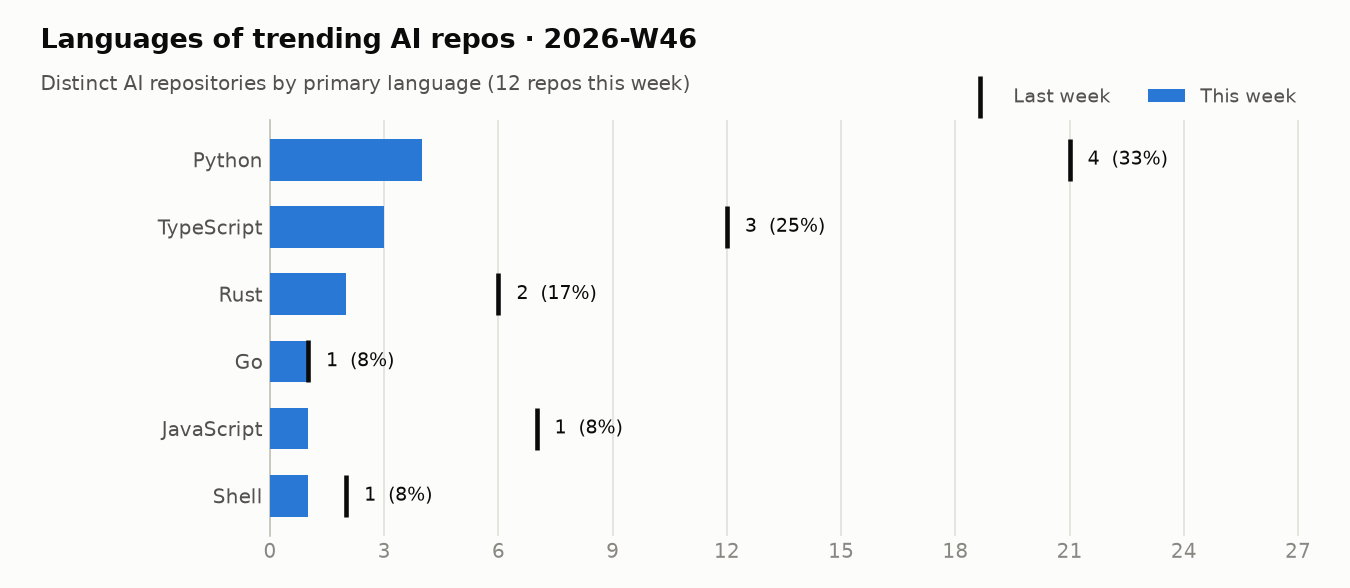
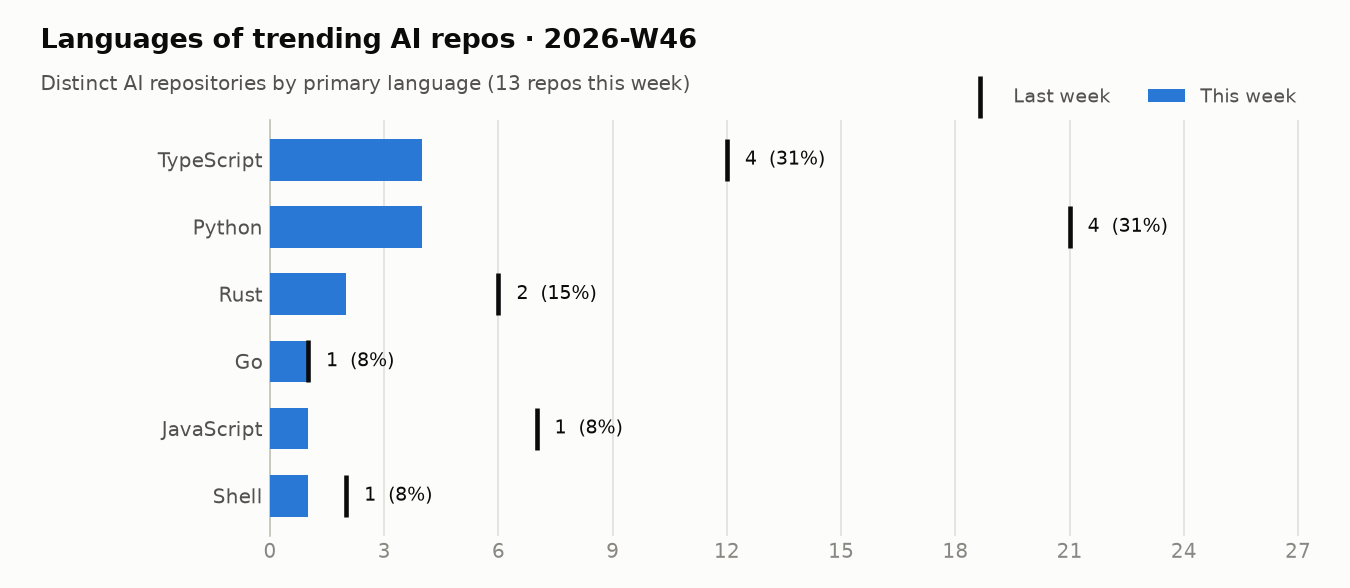
trending: snapshot 2026-11-12

diff --git a/README.md b/README.md
@@ -7,29 +7,28 @@ Every morning a GitHub Actions workflow reads the GitHub trending page, looks up
 ## Live view
 
 <!-- TRACKER_START -->
-### 🔥 AI repos trending today · 2026-11-11
+### 🔥 AI repos trending today · 2026-11-12
 
-7 of 12 trending repositories are AI-related.
+6 of 10 trending repositories are AI-related.
 
 | # | Repo | Language | ⭐ today | ⭐ total | Topics |
 |--:|---|---|--:|--:|---|
-| 1 | [meta/astryx](https://github.com/meta/astryx)<br><sub>Star meta / astryx An open source design system that's fully customizable and agent ready</sub> | TypeScript | 3,108 | 23,877 | – |
-| 2 | [anthropics/skills](https://github.com/anthropics/skills)<br><sub>Star anthropics / skills Public repository for Agent Skills</sub> | Python | 1,679 | 192,716 | `agent-skills` |
-| 3 | [addyosmani/agent-skills](https://github.com/addyosmani/agent-skills)<br><sub>Star addyosmani / agent-skills Production-grade engineering skills for AI coding agents.</sub> | JavaScript | 465 | 115,456 | `agent-skills` `antigravity` `claude-code` `codex` |
-| 4 | [anthropics/claude-quickstarts](https://github.com/anthropics/claude-quickstarts)<br><sub>Star anthropics / claude-quickstarts A collection of projects designed to help developers …</sub> | Python | 531 | 20,676 | – |
-| 7 | [homeassistant-ai/ha-mcp](https://github.com/homeassistant-ai/ha-mcp)<br><sub>Star homeassistant-ai / ha-mcp Configure and automate Home Assistant with Claude, ChatGPT,…</sub> | Python | 790 | 6,893 | `ai` `claude` `hacs` `home-assistant` |
-| 8 | [vercel-labs/agent-browser](https://github.com/vercel-labs/agent-browser)<br><sub>Star vercel-labs / agent-browser Browser automation CLI for AI agents</sub> | Rust | 780 | 49,500 | – |
-| 12 | [mattpocock/skills](https://github.com/mattpocock/skills)<br><sub>Sponsor Star mattpocock / skills Skills for Real Engineers. Straight from my .agents direc…</sub> | Shell | 1,225 | 321,360 | – |
+| 1 | [meta/astryx](https://github.com/meta/astryx)<br><sub>Star meta / astryx An open source design system that's fully customizable and agent ready</sub> | TypeScript | 2,776 | 25,752 | – |
+| 2 | [ZhuLinsen/daily_stock_analysis](https://github.com/ZhuLinsen/daily_stock_analysis)<br><sub>Star ZhuLinsen / daily_stock_analysis LLM 驱动的多市场股票智能分析系统：多源行情、实时新闻、决策看板与自动推送，支持零成本定时运行。 LL…</sub> | Python | 278 | 70,900 | `a-stock` `ai-agent` `aigc` `llm` |
+| 5 | [addyosmani/agent-skills](https://github.com/addyosmani/agent-skills)<br><sub>Star addyosmani / agent-skills Production-grade engineering skills for AI coding agents.</sub> | JavaScript | 787 | 116,251 | `agent-skills` `antigravity` `claude-code` `codex` |
+| 6 | [vercel-labs/agent-browser](https://github.com/vercel-labs/agent-browser)<br><sub>Star vercel-labs / agent-browser Browser automation CLI for AI agents</sub> | Rust | 708 | 50,119 | – |
+| 8 | [homeassistant-ai/ha-mcp](https://github.com/homeassistant-ai/ha-mcp)<br><sub>Star homeassistant-ai / ha-mcp Configure and automate Home Assistant with Claude, ChatGPT,…</sub> | Python | 645 | 7,607 | `ai` `claude` `hacs` `home-assistant` |
+| 9 | [openai/codex-security](https://github.com/openai/codex-security)<br><sub>Star openai / codex-security OpenAI's Codex Security CLI and TypeScript SDK for finding, v…</sub> | TypeScript | 52 | 11,997 | `ai-security` `application-security` `cli` `code-scanning` |
 
 ### 📊 This week so far · 2026-W46
 
 #### Summary
 
-- **12** distinct AI repos trended over 3 day(s) (last week: 58)
-- AI share of all trending slots: **69%** (-4 pts vs last week)
-- Dominant language: **Python** (33% of AI repos)
+- **13** distinct AI repos trended over 4 day(s) (last week: 58)
+- AI share of all trending slots: **67%** (-6 pts vs last week)
+- No single dominant language: Python, TypeScript tied at 4 repo(s) each
 - Rising topics: `home-assistant` (+2), `home-automation` (+2)
-- New this week: `home-assistant`, `home-automation`
+- New this week: `home-automation`, `home-assistant`
 
 #### Languages
 
@@ -37,9 +36,9 @@ Every morning a GitHub Actions workflow reads the GitHub trending page, looks up
 
 | Language | Repos | Share | Last week |
 |---|--:|--:|--:|
-| Python | 4 | 33% | 21 |
-| TypeScript | 3 | 25% | 12 |
-| Rust | 2 | 17% | 6 |
+| TypeScript | 4 | 31% | 12 |
+| Python | 4 | 31% | 21 |
+| Rust | 2 | 15% | 6 |
 | Go | 1 | 8% | 1 |
 | JavaScript | 1 | 8% | 7 |
 | Shell | 1 | 8% | 2 |
@@ -51,36 +50,36 @@ Every morning a GitHub Actions workflow reads the GitHub trending page, looks up
 | Topic | Repos this week |
 |---|--:|
 | `claude-code` | 3 |
-| `codex` | 2 |
+| `codex` | 3 |
 | `agent-skills` | 2 |
-| `claude` | 2 |
+| `home-automation` | 2 |
 | `home-assistant` | 2 |
 | `mcp` | 2 |
-| `home-automation` | 2 |
+| `claude` | 2 |
+| `bare-metal` | 1 |
 | `gpu` | 1 |
-| `nvidia` | 1 |
 | `kubernetes` | 1 |
 | `cluster-api` | 1 |
-| `bare-metal` | 1 |
+| `nvidia` | 1 |
 
 #### Most persistent AI repos
 
 | Repo | Language | Days trending | Stars gained | Total stars |
 |---|---|--:|--:|--:|
-| [meta/astryx](https://github.com/meta/astryx) | TypeScript | 3 | 7,261 | 23,877 |
+| [meta/astryx](https://github.com/meta/astryx) | TypeScript | 4 | 10,037 | 25,752 |
+| [vercel-labs/agent-browser](https://github.com/vercel-labs/agent-browser) | Rust | 4 | 3,219 | 50,119 |
 | [anthropics/skills](https://github.com/anthropics/skills) | Python | 3 | 3,509 | 192,716 |
-| [vercel-labs/agent-browser](https://github.com/vercel-labs/agent-browser) | Rust | 3 | 2,511 | 49,500 |
+| [homeassistant-ai/ha-mcp](https://github.com/homeassistant-ai/ha-mcp) | Python | 3 | 1,466 | 7,607 |
 | [anthropics/claude-quickstarts](https://github.com/anthropics/claude-quickstarts) | Python | 3 | 1,114 | 20,676 |
 | [milind-soni/OpenMausBot](https://github.com/milind-soni/OpenMausBot) | TypeScript | 2 | 3,026 | 20,240 |
-| [homeassistant-ai/ha-mcp](https://github.com/homeassistant-ai/ha-mcp) | Python | 2 | 821 | 6,893 |
+| [addyosmani/agent-skills](https://github.com/addyosmani/agent-skills) | JavaScript | 2 | 1,252 | 116,251 |
+| [ZhuLinsen/daily_stock_analysis](https://github.com/ZhuLinsen/daily_stock_analysis) | Python | 2 | 784 | 70,900 |
 | [mattpocock/skills](https://github.com/mattpocock/skills) | Shell | 1 | 1,225 | 321,360 |
-| [ZhuLinsen/daily_stock_analysis](https://github.com/ZhuLinsen/daily_stock_analysis) | Python | 1 | 506 | 69,396 |
-| [addyosmani/agent-skills](https://github.com/addyosmani/agent-skills) | JavaScript | 1 | 465 | 115,456 |
 | [dsx-ai-factory/nvke](https://github.com/dsx-ai-factory/nvke) | Go | 1 | 345 | 977 |
 
 ➡ Last full weekly analysis: [2026-W45](reports/weekly/2026-W45.md) · [all reports](reports/weekly)
 
-_Tracking since 2026-10-01 · 42 day(s) of data · [raw data](data/trending.csv)_
+_Tracking since 2026-10-01 · 43 day(s) of data · [raw data](data/trending.csv)_
 <!-- TRACKER_END -->
 
 ## How it works
